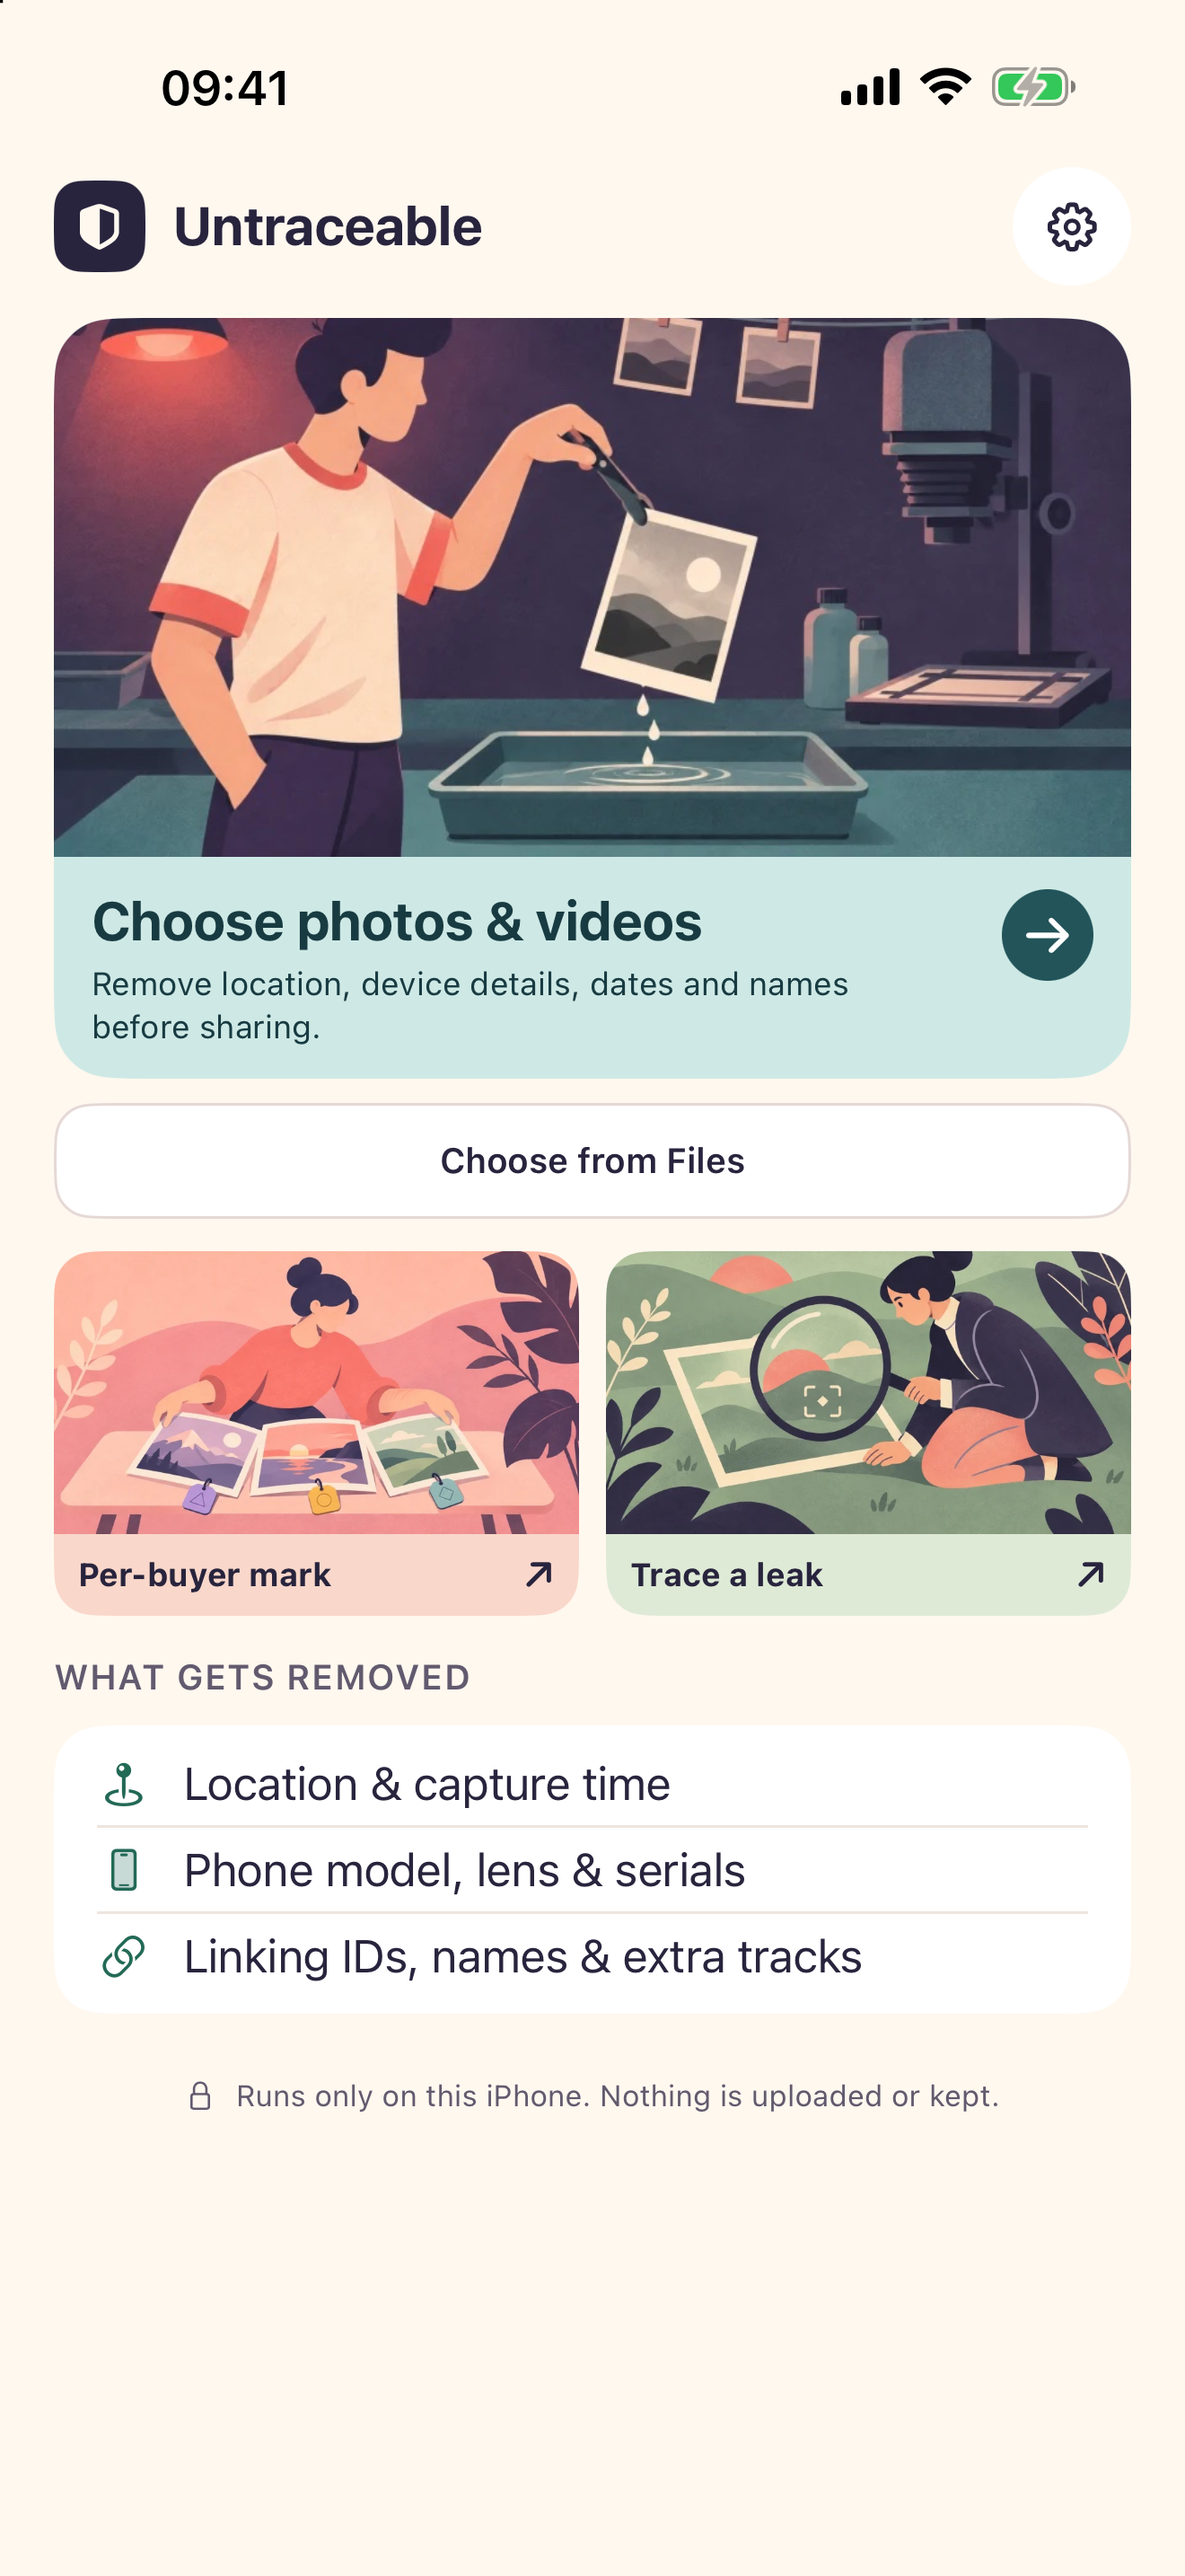
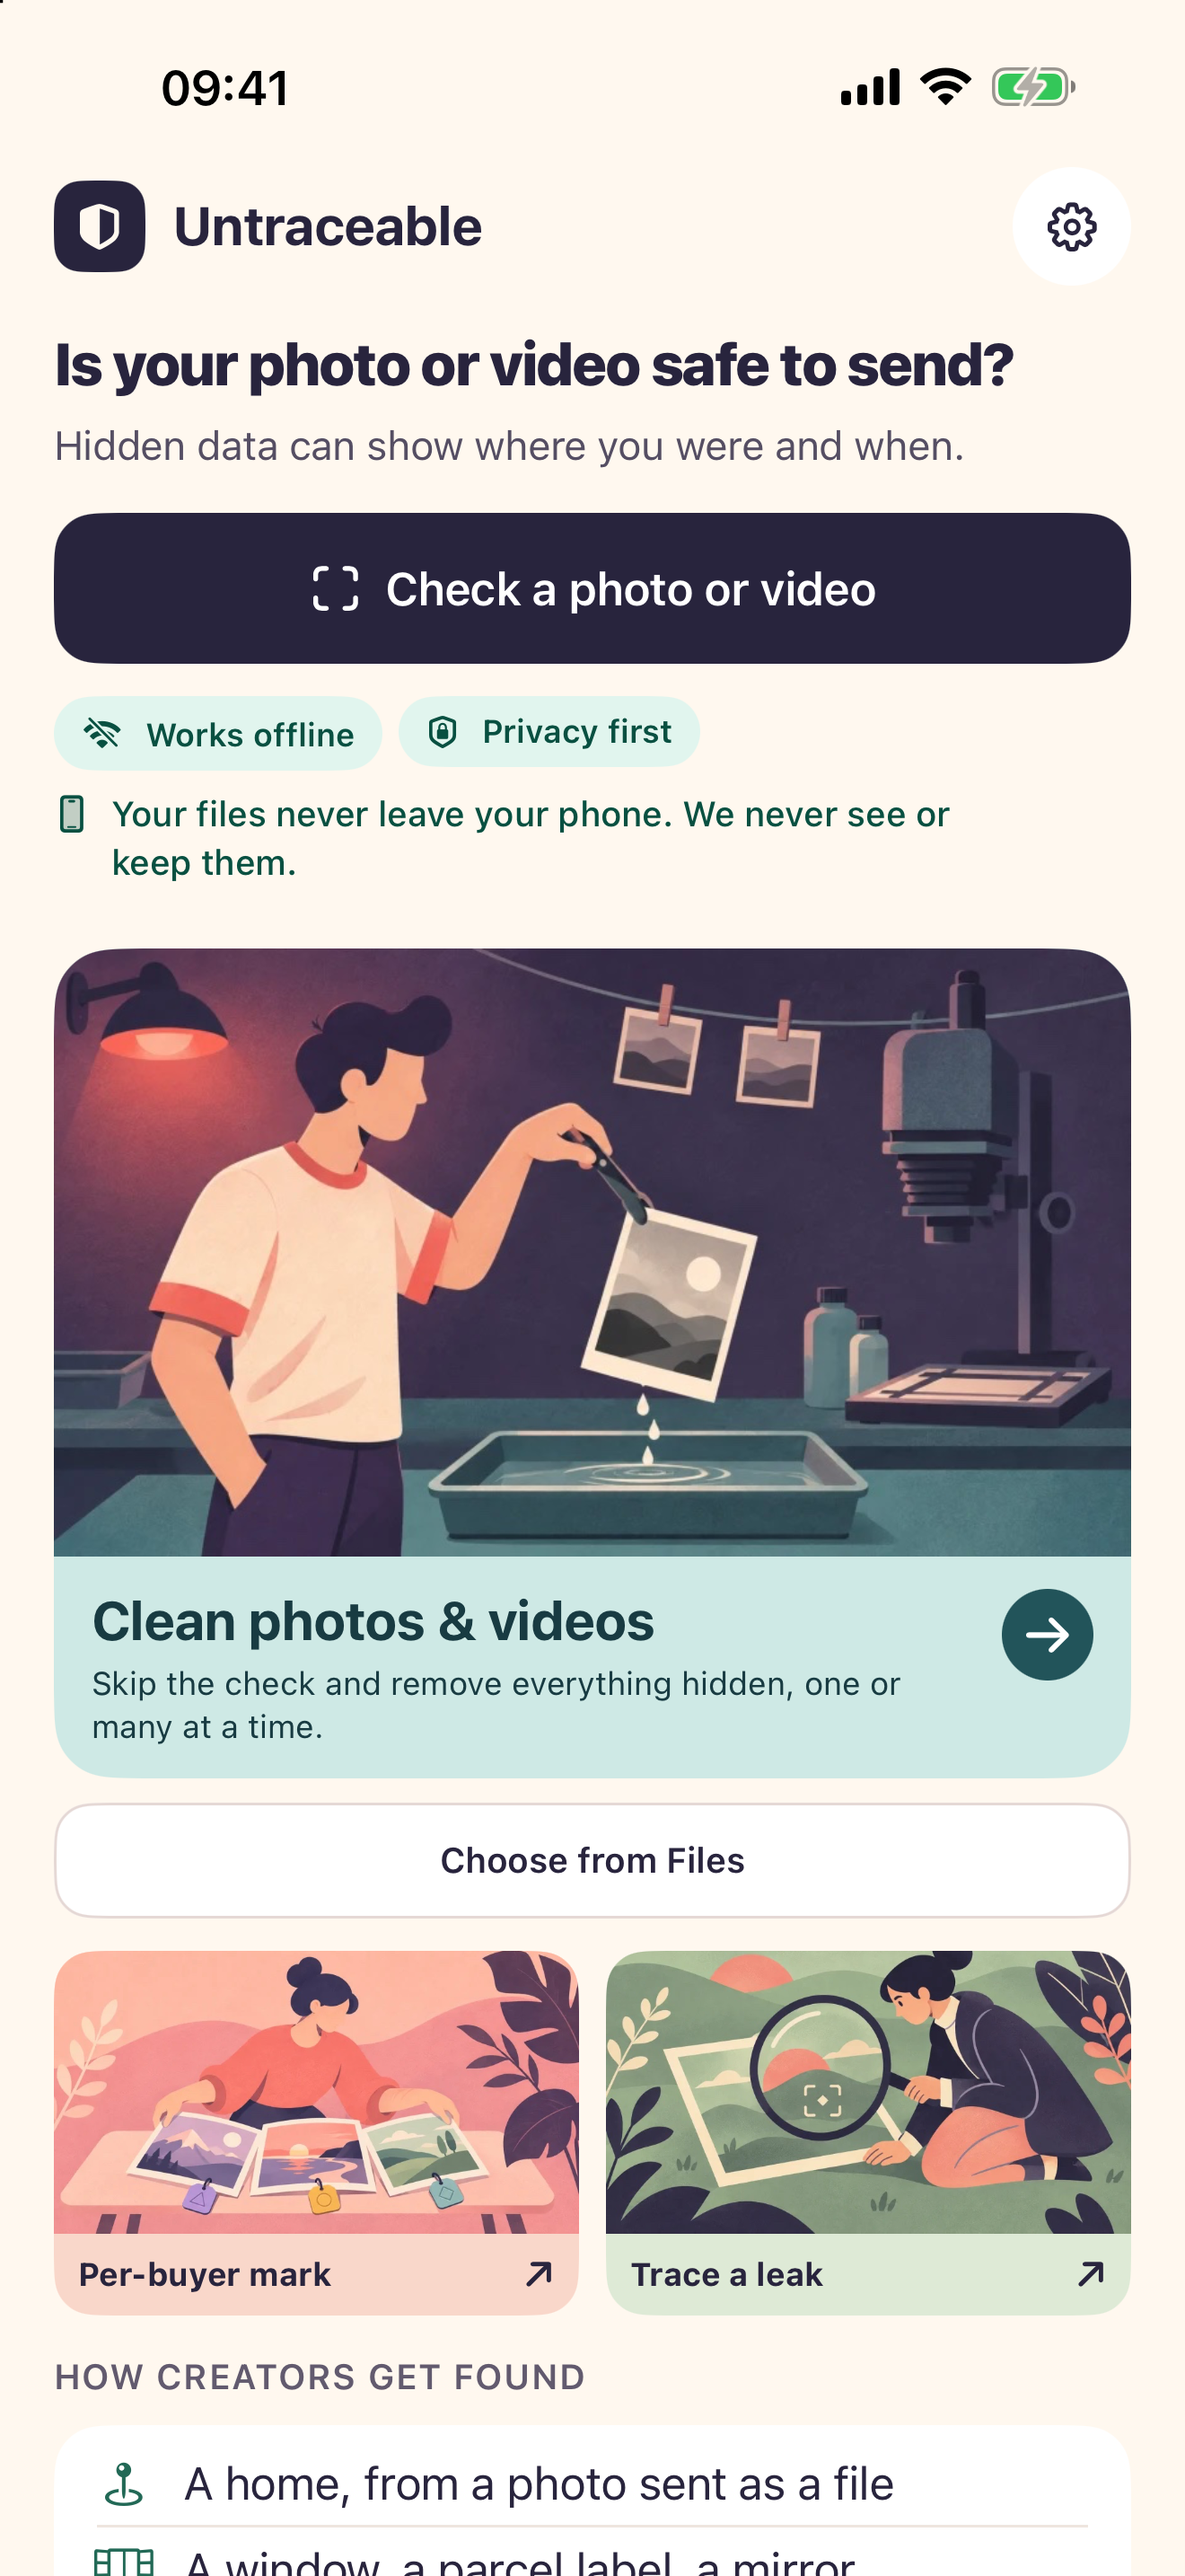
Listing for 1.0: current screenshots, Pro copy, trials, review notes
Seven new 6.9-inch screenshots from build 1.0 (1): home, Check, Review
with mark styles, Results with per-recipient copies, recipients with
lists, Trace a leak, proof card. Home page images and alt text match the
current app. Pro copy adds mark styles, lists, the Face ID lock, and
states device unlinking's measured effect (about 3x weaker, still
matchable). Both plans have a one-week trial; review notes follow the
current flow and explain the lock.

diff --git a/index.html b/index.html
@@ -66,24 +66,24 @@ permalink: /
       <p class="intro">Every clean copy is opened again and checked before you can share it. A copy that fails the check is deleted, never handed to you.</p>
       <div class="steps">
         <div class="step">
-          <figure><img src="{{ '/assets/screens/home.jpg' | relative_url }}" width="552" height="1200" alt="Untraceable home screen with Choose photos and videos, Per-buyer mark and Trace a leak" loading="lazy"></figure>
+          <figure><img src="{{ '/assets/screens/home.jpg' | relative_url }}" width="552" height="1200" alt="Untraceable home screen with Check a photo or video, Clean photos and videos, Per-buyer mark and Trace a leak" loading="lazy"></figure>
           <h3><span class="num">1</span>Choose</h3>
-          <p>Pick photos and videos with the system picker or from Files. The app never asks for access to your library.</p>
+          <p>Check one file to see what it gives away, or pick photos and videos with the system picker or from Files. The app never asks for access to your library.</p>
         </div>
         <div class="step">
-          <figure><img src="{{ '/assets/screens/review.jpg' | relative_url }}" width="552" height="1200" alt="Ready to clean screen with three items and the per-buyer mark switched on" loading="lazy"></figure>
+          <figure><img src="{{ '/assets/screens/review.jpg' | relative_url }}" width="552" height="1200" alt="Ready to clean screen with the per-buyer mark on for three recipients and the Discreet style chosen" loading="lazy"></figure>
           <h3><span class="num">2</span>Review</h3>
-          <p>Everything hidden is always removed. Add a per-buyer mark or device unlinking if you want them.</p>
+          <p>Everything hidden is always removed. Add a per-buyer mark, discreet, standard or strong, or device unlinking if you want them.</p>
         </div>
         <div class="step">
-          <figure><img src="{{ '/assets/screens/cleaning.jpg' | relative_url }}" width="552" height="1200" alt="Cleaning screen showing three of three items verified clean" loading="lazy"></figure>
+          <figure><img src="{{ '/assets/screens/cleaning.jpg' | relative_url }}" width="552" height="1200" alt="Cleaning screen with a video re-encoding and two photos waiting" loading="lazy"></figure>
           <h3><span class="num">3</span>Clean and verify</h3>
           <p>Each item is rebuilt on your iPhone, then re-opened and checked against what a clean file may contain.</p>
         </div>
         <div class="step">
-          <figure><img src="{{ '/assets/screens/results.jpg' | relative_url }}" width="552" height="1200" alt="Clean copy ready screen listing what was found and removed" loading="lazy"></figure>
+          <figure><img src="{{ '/assets/screens/results.jpg' | relative_url }}" width="552" height="1200" alt="Clean copies ready screen listing what was removed and the copy marked for one recipient, with its own Share button" loading="lazy"></figure>
           <h3><span class="num">4</span>Share or save</h3>
-          <p>See exactly what was found and removed, then share the copy or save it to Photos. Originals are deleted from the app.</p>
+          <p>Results open on their own. See exactly what was found and removed, then share each copy or save it to Photos. Originals are deleted from the app.</p>
         </div>
       </div>
     </div>
@@ -96,15 +96,16 @@ permalink: /
         <h2>Know who leaked it.</h2>
         <p class="intro">Cleaning one item at a time is free, with every removal included. Pro adds tools for creators who send work directly to buyers.</p>
         <ul class="list">
-          <li><span><strong>Per-buyer mark.</strong> Pick one clip and tick the people it's for: each gets their own copy with their own random code, readable on light and dark areas. If a copy turns up somewhere it shouldn't, type the code to see who it was made for. The recipient list never leaves your iPhone.</span></li>
+          <li><span><strong>Per-buyer mark.</strong> Pick one clip and tick who it's for: each recipient gets their own copy with their own random code. A recipient can be one buyer or a list of buyers, and a second code for one suspect finds who in a list leaked. Choose how much the code shows: discreet, standard or strong. If a copy turns up somewhere it shouldn't, type the code to see who it was made for.</span></li>
           <li><span><strong>Proof card and leaker flag.</strong> A matched code gives you a card to screenshot for a report, and you can flag that person so the app warns you before making them another copy. The card shows who received the copy, not who posted it.</span></li>
           <li><span><strong>Batch cleaning.</strong> Clean a whole set in one go, with progress for each item.</span></li>
-          <li><span><strong>Device unlinking.</strong> Normalises size and softens sensor noise, which makes it harder to link two files to the same phone. It reduces that link; it can't remove it.</span></li>
+          <li><span><strong>A locked recipient list.</strong> The list never leaves your iPhone and opens with Face ID or your passcode. Turning the lock off or erasing the list asks first.</span></li>
+          <li><span><strong>Device unlinking.</strong> Normalises size and softens sensor noise, which makes it harder to link two files to the same phone. In our lab test it made a phone's sensor pattern about three times weaker; a phone can still be matched. It reduces that link; it can't remove it.</span></li>
         </ul>
         <p class="trust" style="color:#e6dbeb">Pro is an auto-renewing subscription, monthly or yearly, bought through the App Store. See the <a href="{{ '/terms/' | relative_url }}" style="color:#a9e0c6">Terms of Use</a>.</p>
       </div>
       <div class="shot">
-        <img src="{{ '/assets/screens/trace.jpg' | relative_url }}" width="552" height="1200" alt="Trace a leak screen with a field for the code seen on a leaked copy" loading="lazy">
+        <img src="{{ '/assets/screens/trace.jpg' | relative_url }}" width="552" height="1200" alt="Trace a leak screen with a code typed in and a match found, with Show proof card and Flag as leaker" loading="lazy">
       </div>
     </div>
   </section>

diff --git a/app-store/metadata.md b/app-store/metadata.md
@@ -25,7 +25,7 @@ Copy for App Store Connect. This folder is not published on the website.
 
 ## Promotional text (170)
 
-Clean copies of your photos and videos, made on your iPhone. Location, phone model, dates, names and extra tracks removed. Picture and sound stay the same.
+See what a photo gives away, then make a clean copy on your iPhone. Mark each buyer's copy with their own code, discreet or strong, and know who leaked it.
 
 ## Keywords (100)
 
@@ -34,6 +34,8 @@ metadata,exif,remover,gps,location,privacy,strip,geotag,watermark,leak,trace,ser
 ## Description (4000)
 
 Share the picture, not what's hidden in the file.
+
+Check a photo or video first and see what it gives away, with the actual values: where it was taken, which phone, the time, a name. Then make a clean copy.
 
 Phones and editing apps write details into every photo and video: where it was taken, which phone and lens, serial numbers, the date and time, your name, and extra tracks inside videos. Untraceable makes a clean copy before you post or send it. Everything runs on your iPhone. The picture and sound stay the same. Unlike a screenshot, the copy is full quality, and it works on video.
 
@@ -59,10 +61,11 @@ NOTHING LEAVES YOUR IPHONE
 
 UNTRACEABLE PRO
 Cleaning one item at a time is free, with every removal included. Pro adds:
-• Per-buyer mark: pick one clip and tick the people it's for. Each gets their own copy with their own random code. If a copy leaks, type the code to see who it was made for. The recipient list stays on your iPhone.
+• Per-buyer mark: pick one clip and tick who it's for. Each recipient gets their own copy with their own random code. A recipient can be one buyer or a list of buyers. Choose how much the code shows: discreet, standard or strong. If a copy leaks, type the code to see who it was made for.
 • Proof card and leaker flag: a matched code gives you a card to screenshot for a report, and a flag that warns you before you make that person another copy.
 • Batch cleaning: clean a whole set in one go.
-• Device unlinking: normalises size and softens sensor noise, making it harder to link two files to the same phone.
+• A locked recipient list: it stays on your iPhone and opens with Face ID or your passcode.
+• Device unlinking: normalises size and softens sensor noise. In our lab test this made a phone's sensor pattern about three times weaker; a phone can still be matched.
 
 HONEST LIMITS
 A clean copy still looks like it was encoded on an iPhone. Reverse-image search can still match the picture, a background can be matched to other photos of the same place, and face search can find you in other photos. Device unlinking reduces the link to your phone; it can't remove it. A visible mark can be cropped or covered, and its code shows who received a copy, not who posted it. And the app can't change traces outside the file: the account you post from, names on payments and wish lists, posting while you're still at a place, posting the same file twice, your IP address, or your AirDrop name.
@@ -70,7 +73,7 @@ A clean copy still looks like it was encoded on an iPhone. Reverse-image search 
 Only clean content you own or have the right to share.
 
 SUBSCRIPTION
-Untraceable Pro is an auto-renewing subscription, monthly or yearly. Payment is charged to your Apple Account at confirmation of purchase. The subscription renews automatically unless auto-renew is turned off at least 24 hours before the end of the current period; renewal is charged within 24 hours before the period ends. Manage or cancel in your Apple Account settings. Any unused part of a free trial ends when you buy a subscription.
+Untraceable Pro is an auto-renewing subscription, monthly or yearly, each with a one-week free trial. Payment is charged to your Apple Account at confirmation of purchase. A free trial turns into a paid subscription when it ends unless you cancel at least 24 hours before. The subscription renews automatically unless auto-renew is turned off at least 24 hours before the end of the current period; renewal is charged within 24 hours before the period ends. Manage or cancel in your Apple Account settings. Any unused part of a free trial ends when you buy a subscription.
 
 Terms of Use: https://www.apple.com/legal/internet-services/itunes/dev/stdeula/
 Privacy Policy: https://namtran1985vn.github.io/Untraceable-Site/privacy/
@@ -83,8 +86,8 @@ Privacy Policy: https://namtran1985vn.github.io/Untraceable-Site/privacy/
 | Product ID | `untraceable.pro.annual` | `untraceable.pro.monthly` |
 | Reference name | Pro Annual | Pro Monthly |
 | Display name | Untraceable Pro Yearly | Untraceable Pro Monthly |
-| Description (45) | Mark per buyer, batch cleaning and unlinking | Mark per buyer, batch cleaning and unlinking |
-| Intro offer | Free trial *[length to decide]* | — |
+| Description (45) | Per-buyer marks, batch cleaning, unlinking | Per-buyer marks, batch cleaning, unlinking |
+| Intro offer | One-week free trial | One-week free trial |
 | Price | *[to decide]* | *[to decide]* |
 
 Each subscription also needs a review screenshot of the paywall, taken from a build that loads the products.
@@ -103,20 +106,22 @@ The app uses only encryption provided by iOS. `ITSAppUsesNonExemptEncryption` is
 
 > Untraceable makes a clean copy of a photo or video on the device. There is no account or login, and the app makes no network requests of its own.
 >
-> To test: tap "Choose photos & videos", pick any photo, tap "Clean 1 item", then "See results". The report lists what was removed; "Share clean copy" and "Save to Photos" are available. Save to Photos asks only for add-only access.
+> To test: on the home screen tap "Check a photo or video" and pick any photo: the screen lists what the file gives away. Tap "Make a clean copy"; Results opens on its own with what was removed. "Share clean copy" and "Save to Photos" are available; Save to Photos asks only for add-only access. "Clean photos & videos" does the same for one item, or many with Pro.
 >
-> Pro features (per-buyer mark, device unlinking, batch) are behind the auto-renewing subscription and can be bought with a sandbox account. "Trace a leak" on the home screen looks up a code from the per-buyer mark; codes are random and the recipient list stays on the device.
+> Pro (per-buyer mark, batch, device unlinking) is an auto-renewing subscription with a one-week free trial; use a sandbox account. With Pro, turn on "Per-buyer mark" on the Review screen, add a recipient, pick a style and clean: each copy carries its own random code. "Trace a leak" on the home screen looks up a code. The recipient list stays on the device and opens with Face ID or the passcode; on a device without a passcode it opens directly.
 >
-> The app does not change what the picture shows, apart from the optional visible mark.
+> The app does not change what the picture shows, apart from the optional visible mark and an optional small dot (Settings).
 
 ## Screenshots
 
-`app-store/screenshots/` holds 6.9-inch iPhone screenshots (1320 × 2868), taken on the iPhone 17 Pro Max simulator with the status bar set to 9:41. App Store Connect scales them for smaller iPhones. Order:
+`app-store/screenshots/` holds 6.9-inch iPhone screenshots (1320 × 2868), taken on the iPhone 17 Pro Max simulator with the status bar set to 9:41, from build 1.0 (1). App Store Connect scales them for smaller iPhones. Order:
 
-1. `6.9in-1-home.png` — home
-2. `6.9in-2-review.png` — ready to clean, per-buyer mark on
-3. `6.9in-3-cleaning.png` — three of three verified clean
-4. `6.9in-4-results.png` — what was found and removed
-5. `6.9in-5-trace.png` — trace a leak
+1. `6.9in-1-home.png` — home: check a file, clean, per-buyer mark, trace a leak
+2. `6.9in-2-check.png` — what a photo gives away, with the actual values
+3. `6.9in-3-review.png` — per-buyer mark for three recipients, Discreet style
+4. `6.9in-4-results.png` — clean copies ready, one marked copy per recipient
+5. `6.9in-5-recipients.png` — recipients: a username and two lists
+6. `6.9in-6-trace-match.png` — trace a leak: match found
+7. `6.9in-7-proof-card.png` — proof card to screenshot for a report
 
-Sample media is the app's own illustrations; no real photos or people.
+Sample media is the app's own illustrations; the location and the name "Mai Nguyen" on the Check screen are planted test values, not a real person.
